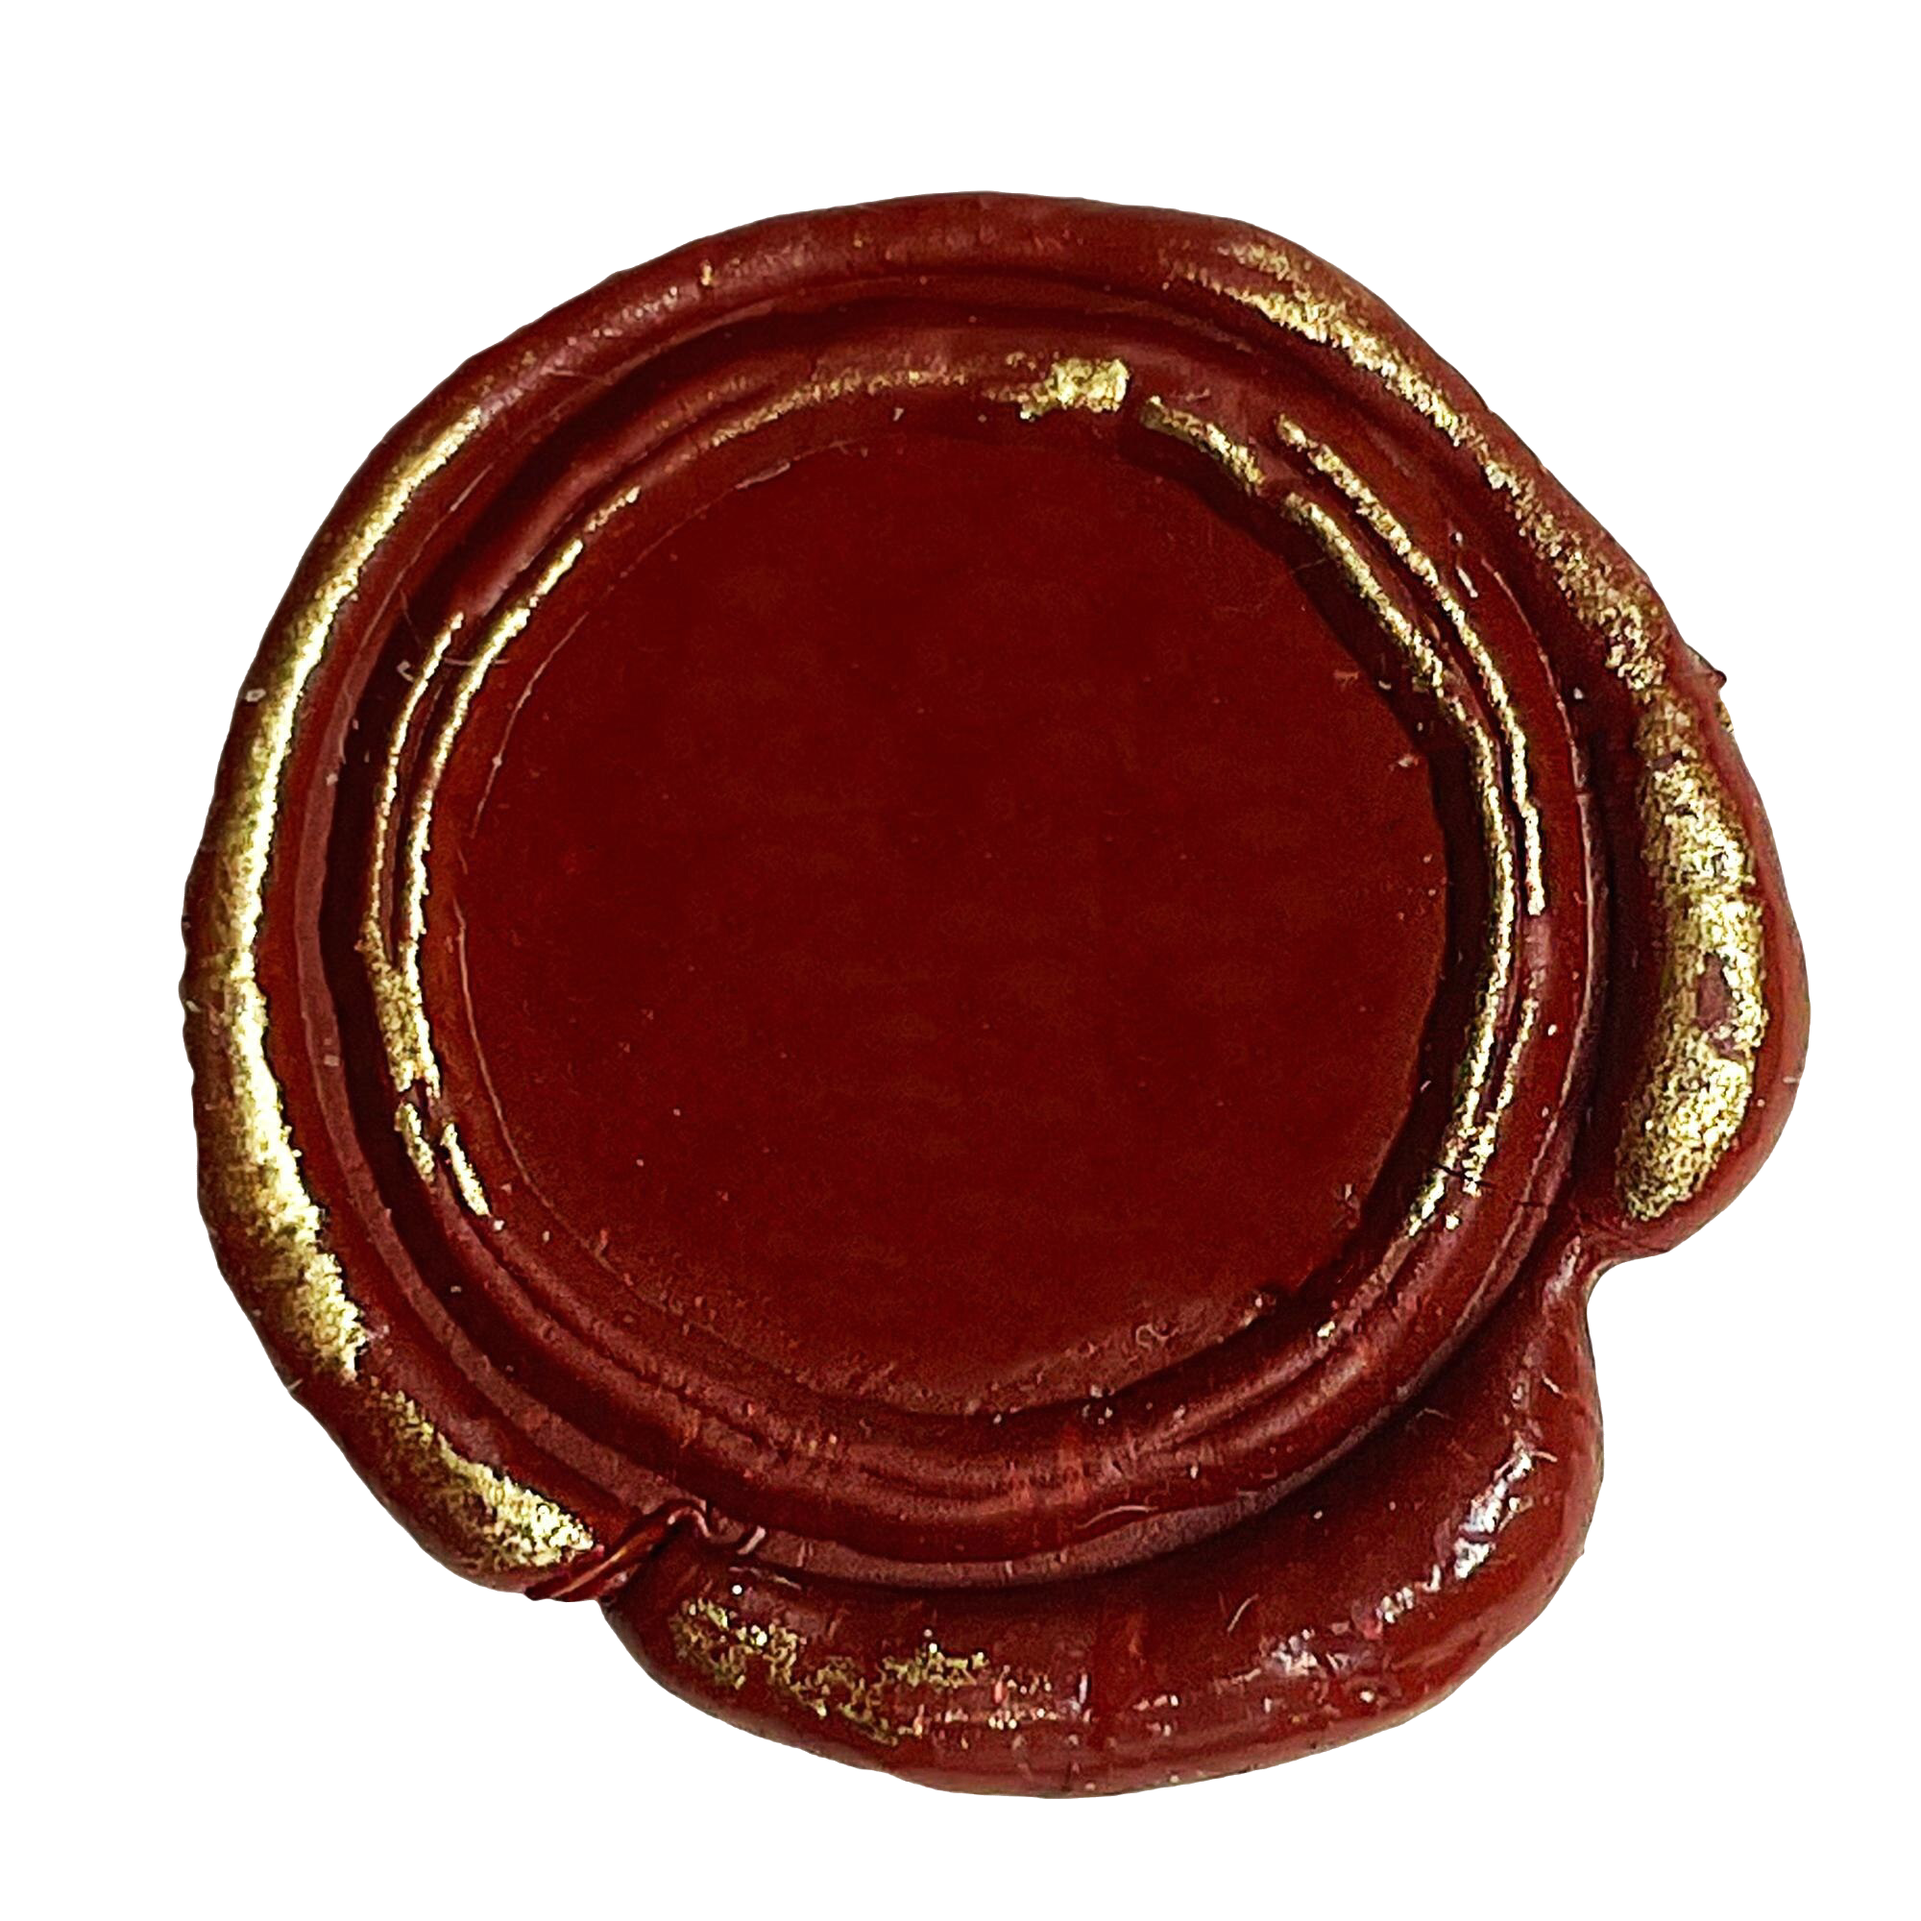
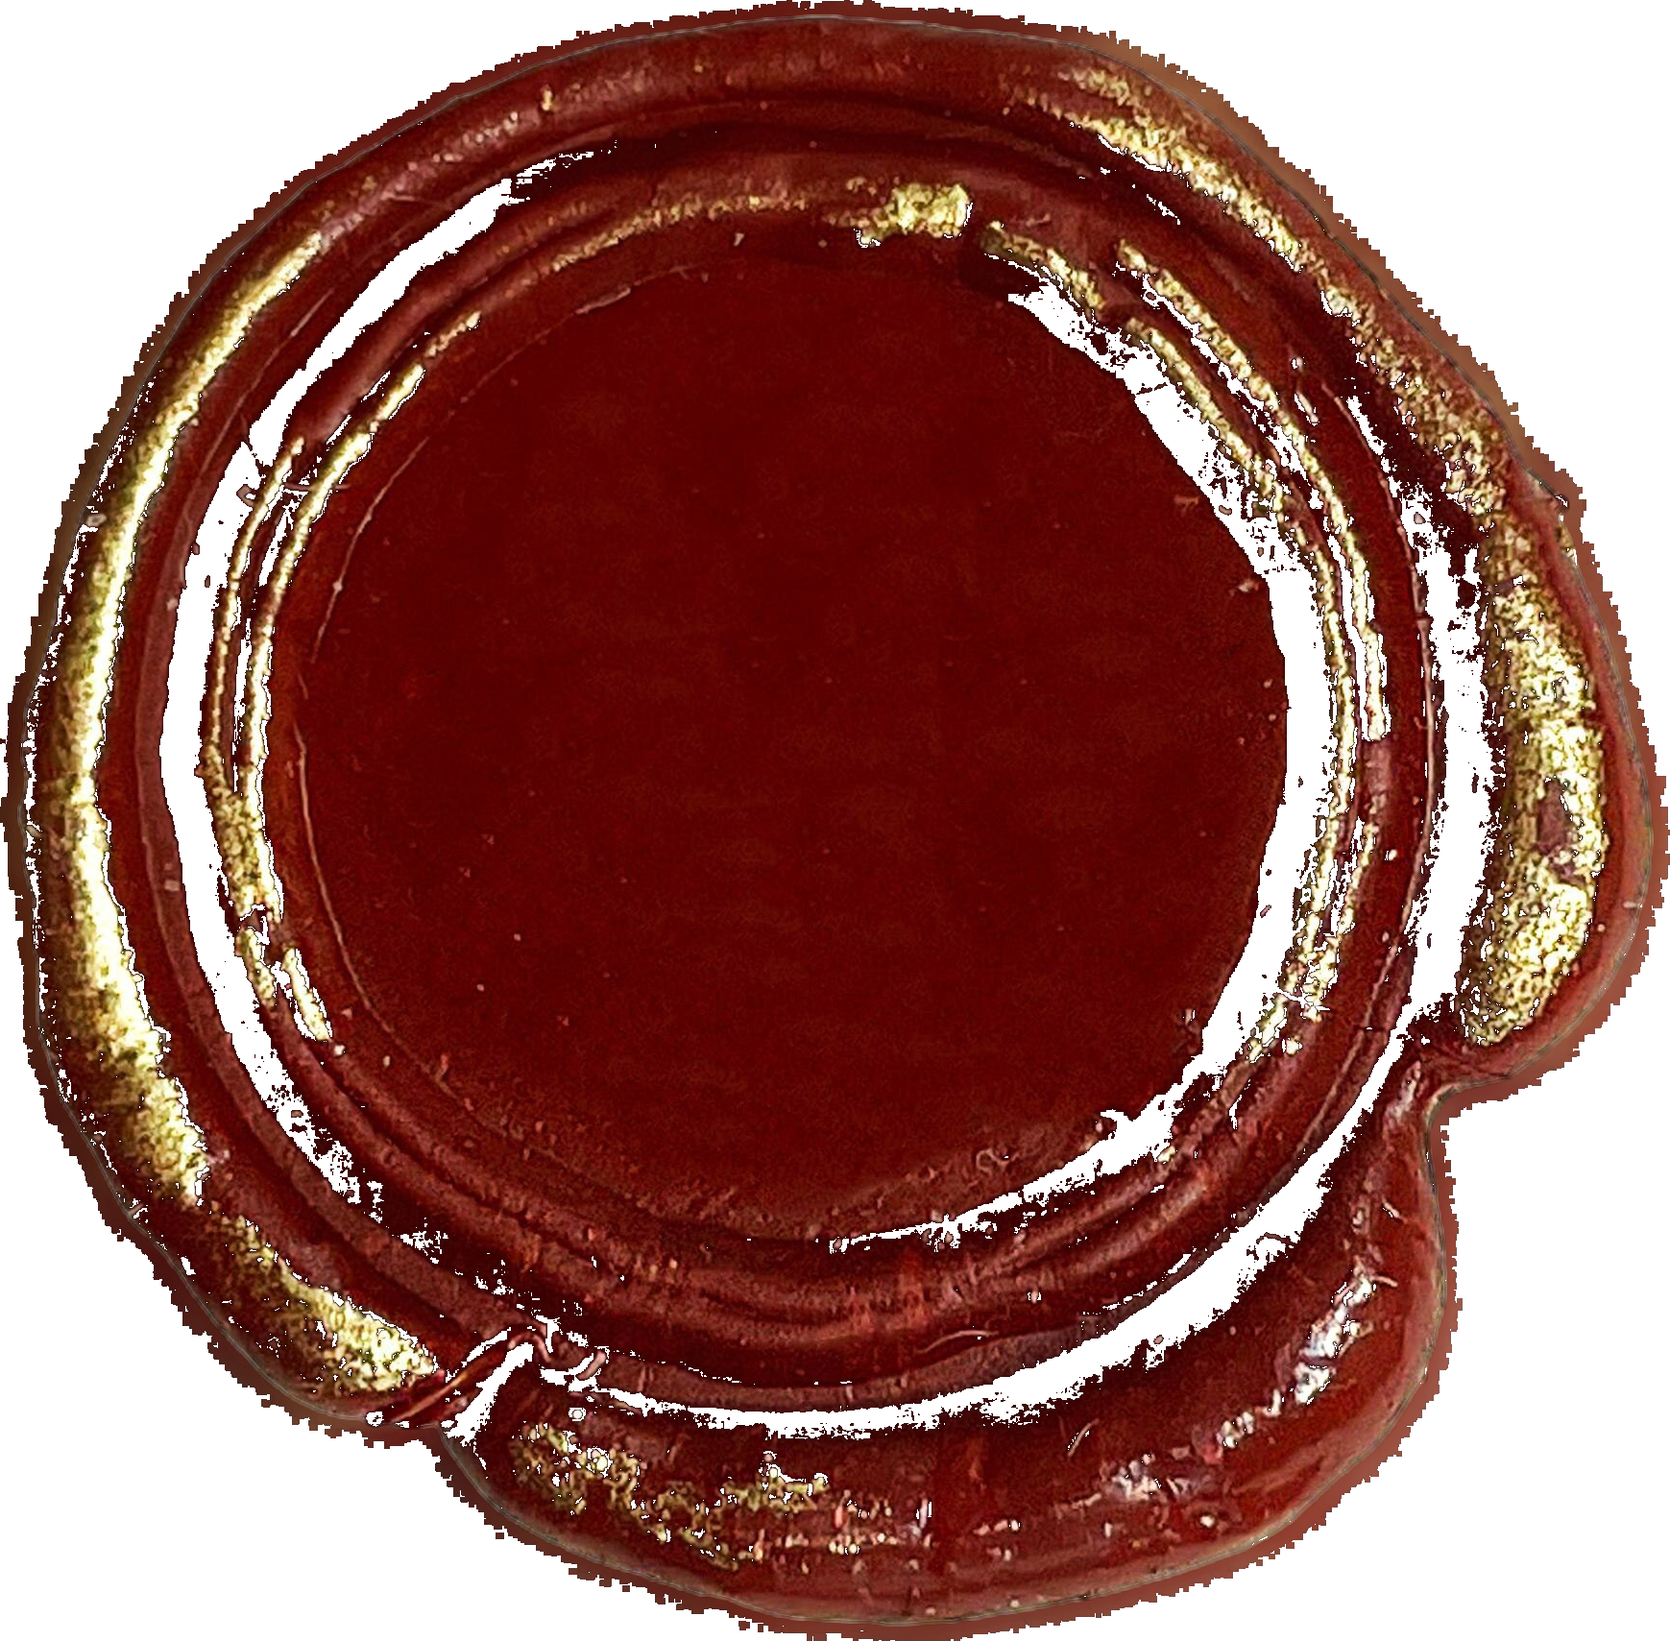
Fix red wax seal visibility on receive envelope.
Crop wax PNG to content bounds with transparent background, remove lighten blend mode that hid the seal on cream, and bump asset cache buster.

diff --git a/src/app/globals.css b/src/app/globals.css
@@ -918,8 +918,9 @@ body {
   position: absolute;
   left: 50%;
   top: 46%;
-  width: 4.75rem;
-  height: 4.75rem;
+  z-index: 2;
+  width: 5.75rem;
+  height: 5.75rem;
   transform: translate(-50%, -50%);
   border: none;
   padding: 0;
@@ -930,24 +931,17 @@ body {
 }
 
 .ps-receive-wax {
-  position: relative;
   display: block;
   width: 100%;
   height: 100%;
-  overflow: hidden;
-  border-radius: 50%;
   pointer-events: none;
 }
 
 .ps-receive-wax__img {
-  position: absolute;
-  width: 118%;
-  height: 118%;
-  left: -9%;
-  top: -9%;
-  max-width: none;
-  object-fit: cover;
-  mix-blend-mode: lighten;
+  display: block;
+  width: 100%;
+  height: 100%;
+  object-fit: contain;
   pointer-events: none;
   user-select: none;
 }

diff --git a/src/lib/figma-assets.ts b/src/lib/figma-assets.ts
@@ -15,7 +15,7 @@ export const FIGMA_ASSETS = {
   buttonSend: "/figma/button-send.png",
   mailbox: "/figma/mailbox.png?v=5",
   envelopeToOpen: "/figma/envelope-to-open.png",
-  waxOpenButton: "/figma/wax-open-button.png",
+  waxOpenButton: "/figma/wax-open-button.png?v=3",
   downloadIcon: "/figma/download-icon.png",
   copyIcon: "/figma/copy-icon.png",
   linkIcon: "/figma/link-icon.png",
